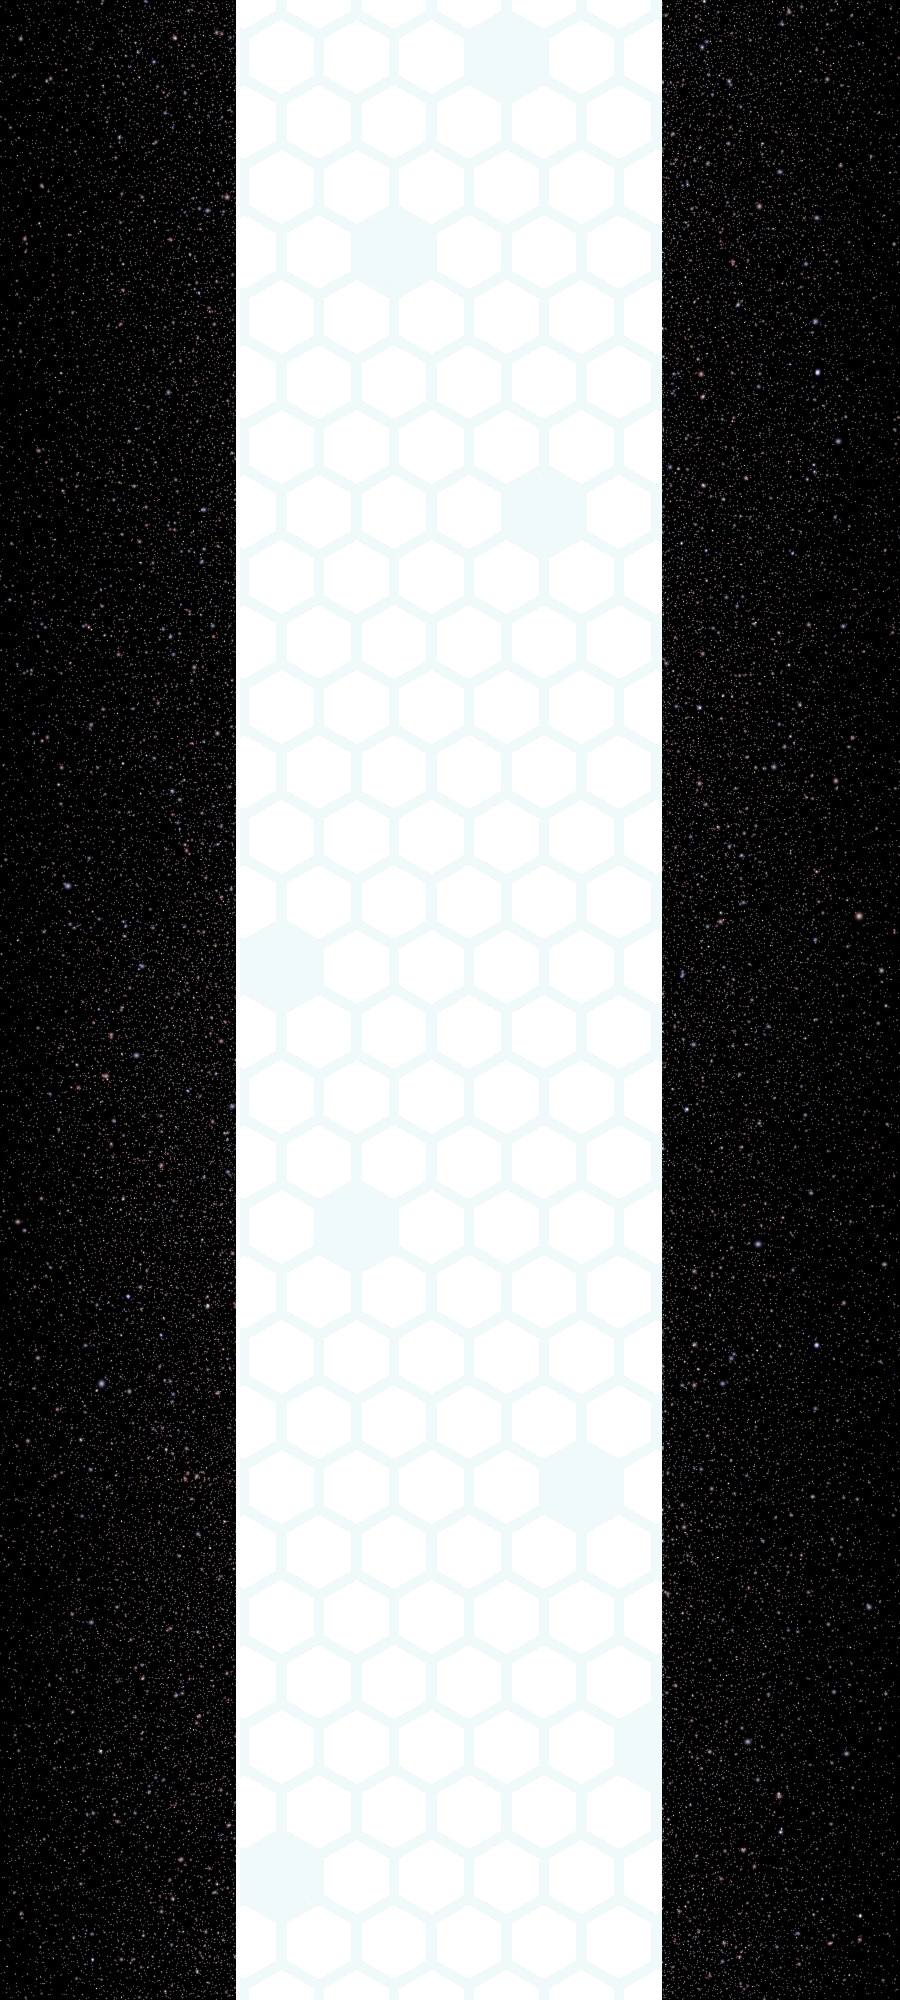
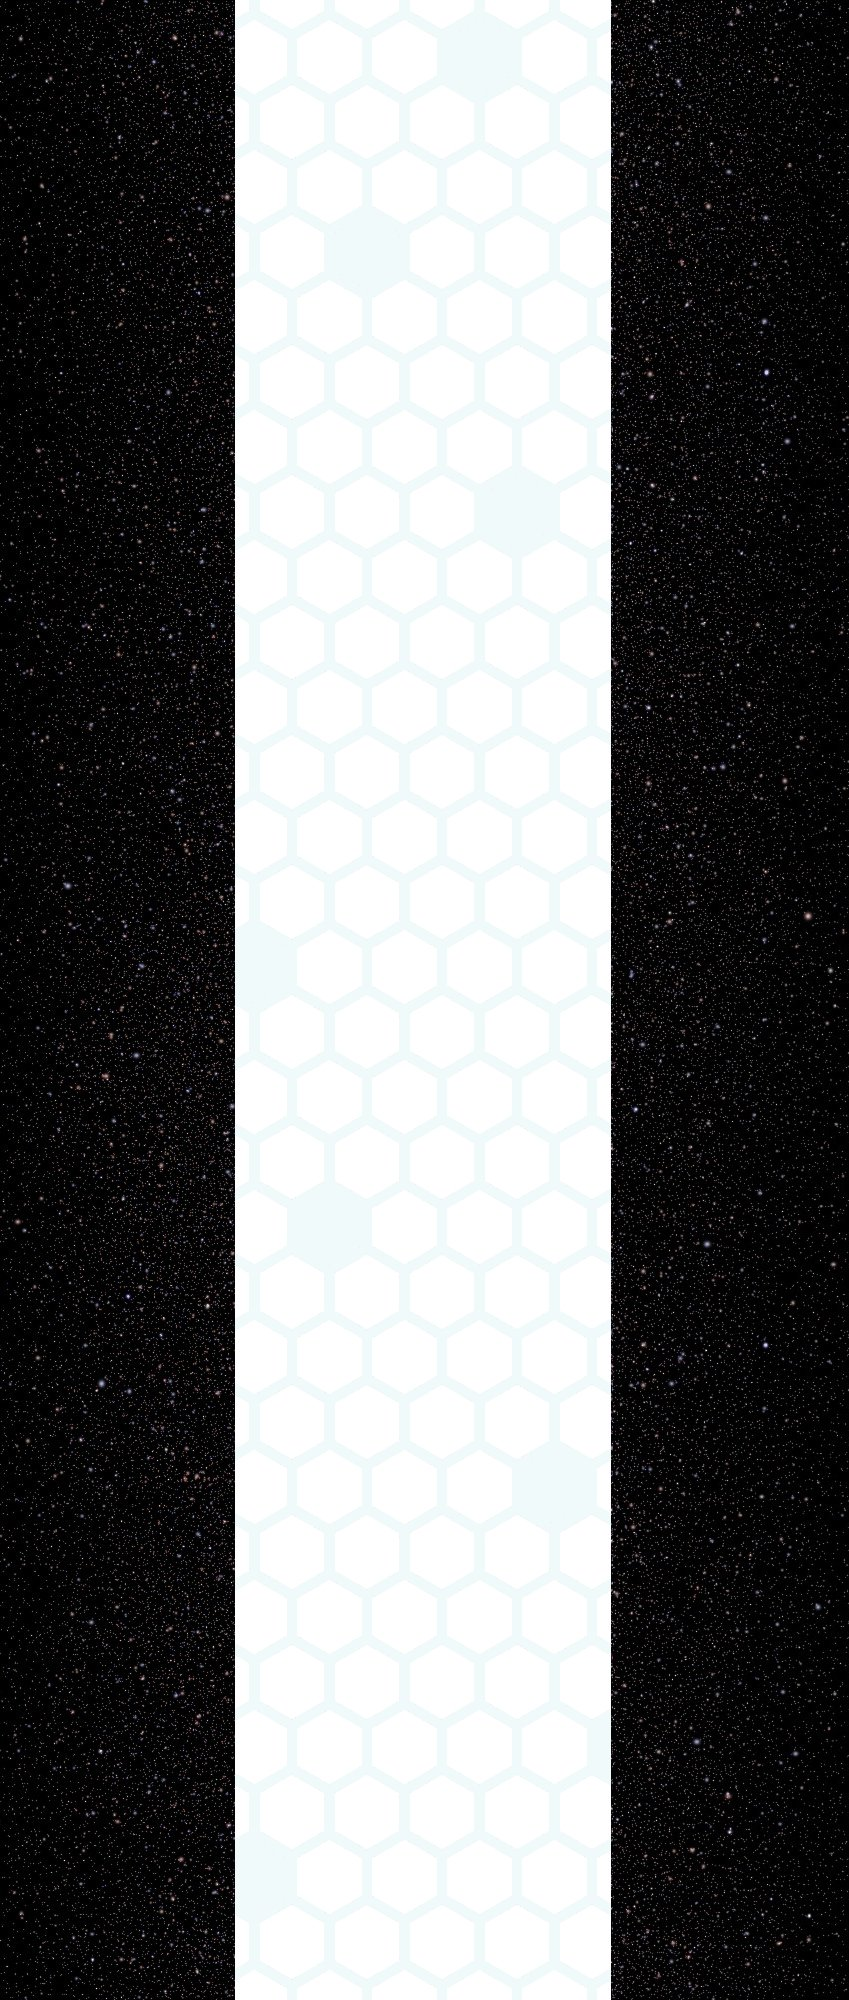
mobile reponsive styling
fix mobile background & wrapper elements

Changed region(s): [[0.7044, 0.0, 0.98, 1.0], [0.0306, 0.0, 0.2756, 1.0], [0.9494, 0.496, 0.98, 0.527]]

diff --git a/public/stylesheets/style.css b/public/stylesheets/style.css
@@ -380,6 +380,7 @@ a:active {
   }
 }
 
+
 /*  ~~~~~~~~~~~~~~~~~~~~~~~  Mobile Viewing  ~~~~~~~~~~~~~~~~~~~~~~~  */
 
 @media screen and (max-width:845px) {
@@ -395,12 +396,12 @@ a:active {
       padding-top: 50px;
       margin:0 auto;
       text-align: center;
-      width:374px;
-      font-size: 20px;
+      width:350px;
+      font-size: 18px;
     }
     h1, h2 {    
       font-family: 'Franklin Gothic Medium', 'Arial Narrow', Arial, sans-serif;
-      top:10px;
+      padding-top:10px;
       text-decoration: underline;
   
     }
@@ -425,9 +426,9 @@ a:active {
       position: fixed;
       top:10%;
       left:50%;
-      margin-left: -205px;
+      margin-left: -155px;
       background-color:white;
-      width:350px;
+      width:250px;
       padding: 20px 20px 10px 20px;
       z-index: 9;
       border-color:black;
@@ -493,7 +494,7 @@ a:active {
       text-align: center;
       width: 100%;
       position: fixed;
-      height: 50px;
+      height: 44px;
       background-image: url(../assets/nav_bar.jpg);
       background-repeat: repeat-x;
       margin-top: -8px;
@@ -503,7 +504,7 @@ a:active {
     }
     .left_nav {
       float: center;
-      font-size: 15px;
+      font-size: 14px;
     }
     .right_nav {
       display:none;
@@ -519,7 +520,7 @@ a:active {
       font: inherit;
       background: inherit;
       color: inherit;
-      margin-left: -5px;
+      margin-left: -7px;
     }
     #user_controls:hover {
       cursor: pointer;
@@ -551,22 +552,21 @@ a:active {
     }
     /*  ~~~~~~~~~~~~~~~~~~~~~~~  PC-Main Content  ~~~~~~~~~~~~~~~~~~~~~~~  */
     .content_bubble {
-      width:360px;
+      width:340px;
       height: 100%;
-      margin-bottom: 50px;
+      bottom: 50px;
       float:left;
     }
     .text_bubble {
-      width:360px;
+      width:340px;
       height: 100%;
-      margin-left:0px;
       margin-bottom: 20px;
       padding: 0px;
       padding-top: 30px;
       float:left;
     }
     .database_wrapper {
-      width:360px;
+      width:335px;
       height: 100%;
       border-style: double;
       border-width: 5px;
@@ -651,7 +651,7 @@ a:active {
     .individual_delete_wrapper {
       text-align: center;
       float:left;
-      width: 360px;
+      width: 340px;
       height: 150px;
     }
     #location_overview {
@@ -664,7 +664,7 @@ a:active {
       float:left;
       width: 138px;
       height: 150px;
-      margin: 16px;
+      margin: 10px;
       font-weight: 600;
       letter-spacing: 1px;
     }
@@ -681,7 +681,7 @@ a:active {
       height: 100px;
       margin: 19px;
       padding-top:30px;
-      margin-left:80px;
+      margin-left:65px;
     }
     #machine_overview {
       text-align:left;
@@ -691,10 +691,12 @@ a:active {
     .individual_machine_wrapper {
       text-align: center;
       float:left;
-      width: 320px;
-      height: 500px;
-      margin: 19px;
+      width:300px;
+      height: 460px;
+      margin-top: 10px;
       padding-top:20px;
+      margin-left:16px;
+      margin-bottom: 8px;
     }
     #machine_pic {
       height:280px;
@@ -703,7 +705,7 @@ a:active {
       padding-left: 10px;
       margin-top: 10px;
       margin-bottom: 18px;
-      margin-left:60px;
+      margin-left:50px;
       border-style:double;
     }
     #machine_datasheet {
@@ -718,9 +720,9 @@ a:active {
     .individual_user_wrapper {
       text-align: center;
       float:left;
-      width: 326px;
+      width: 310px;
       height: 250px;
-      margin: 18px;
+      margin: 12px;
       margin-bottom: 50px;
     }
     #header_pic {
